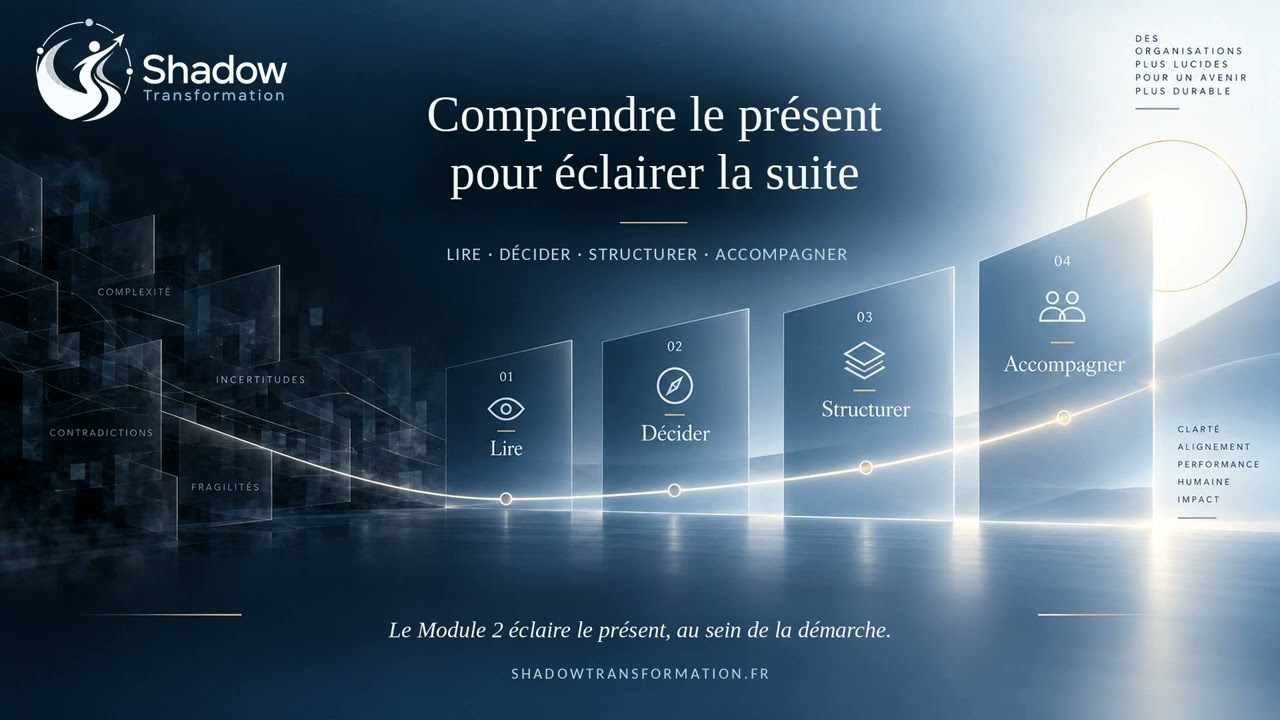
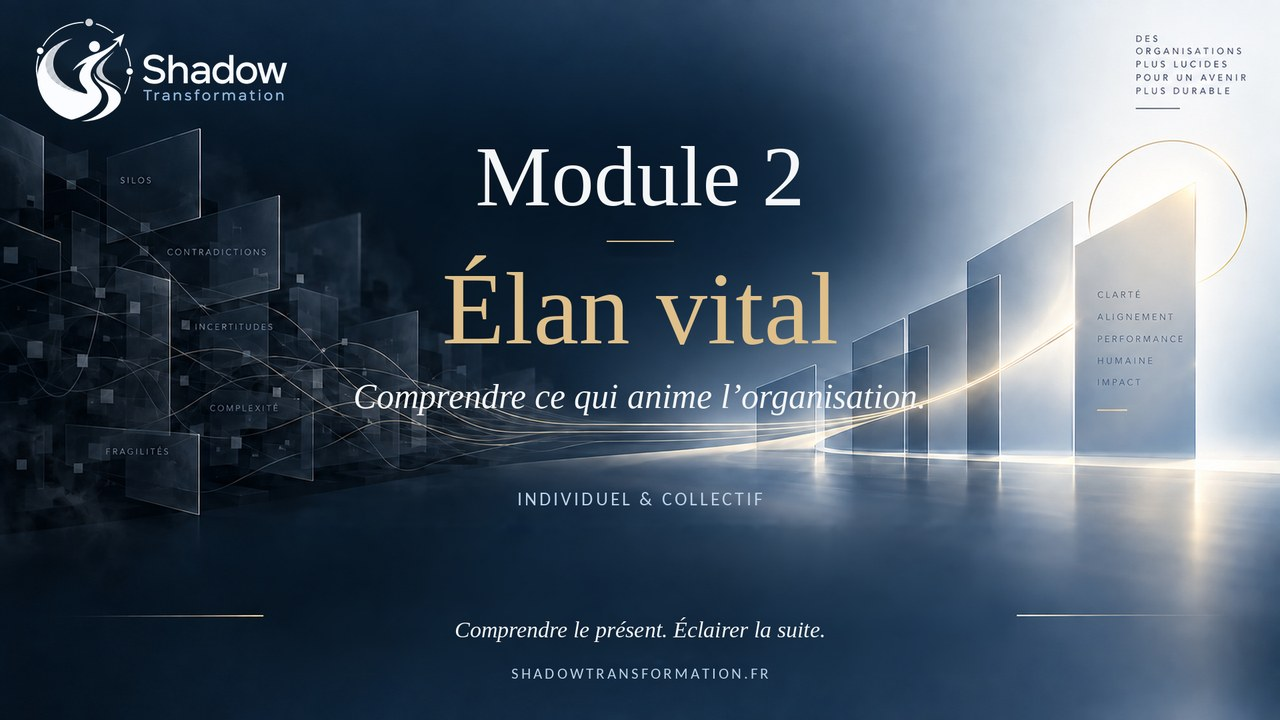
Replace Module 2 video cover with selected Élan vital slide

diff --git a/src/pages/Index.tsx b/src/pages/Index.tsx
@@ -743,7 +743,7 @@ const ModuleTwoVideo = () => {
             ) : (
               <button type="button" onClick={() => setPlaying(true)} aria-label="Lire la présentation du Module 2 sur YouTube"
                 className="group absolute inset-0 h-full w-full text-glacier focus-visible:outline focus-visible:outline-2 focus-visible:outline-offset-[-4px] focus-visible:outline-ice-blue">
-                <img src={moduleTwoPoster} alt="Comprendre le présent pour éclairer la suite — présentation du Module 2" width={1280} height={720} loading="lazy" className="absolute inset-0 h-full w-full object-contain" />
+                <img src={moduleTwoPoster} alt="Module 2 — Élan vital : comprendre ce qui anime l’organisation" width={1280} height={720} loading="lazy" className="absolute inset-0 h-full w-full object-contain" />
                 <span className="absolute bottom-3 left-1/2 flex -translate-x-1/2 items-center gap-2 whitespace-nowrap rounded-full border border-ice-blue/50 bg-background/90 px-4 py-2 text-sm shadow-soft transition-colors group-hover:bg-petrol sm:bottom-6 sm:px-5 sm:py-3">
                   <Play aria-hidden className="h-5 w-5 fill-current" /> Voir la présentation
                 </span>
